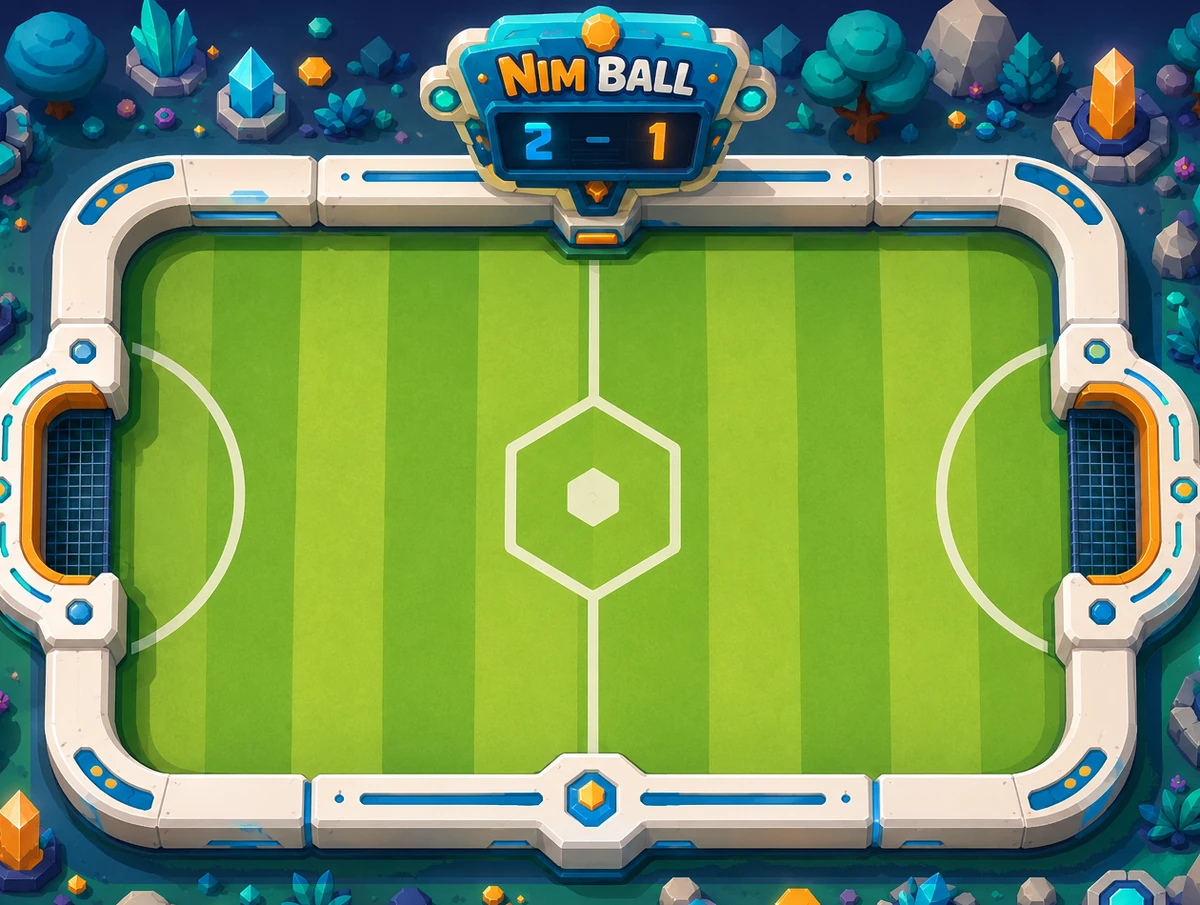
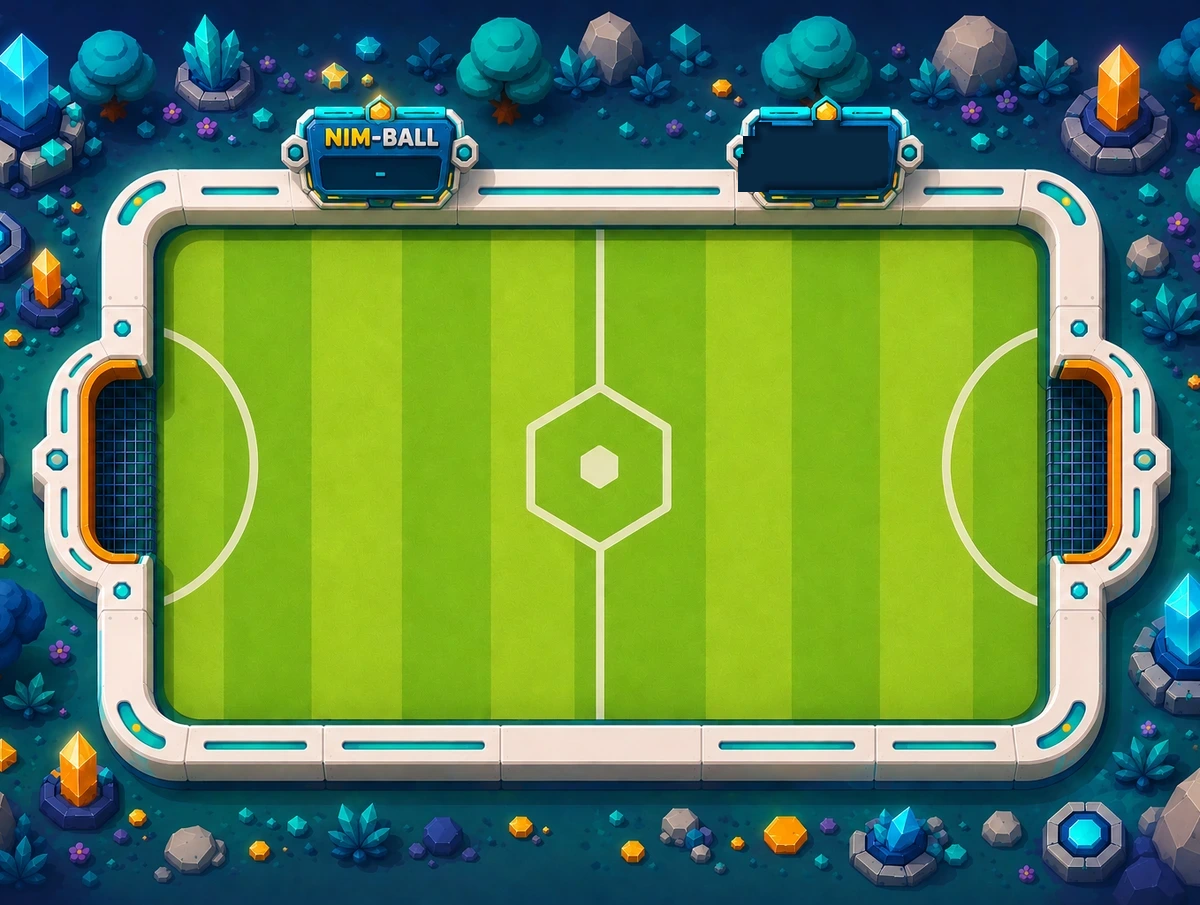
Rework arena background art and wire up the PLAY button/scoreboard
Replaces the arena artwork with a new illustrated rink (decorative
forest/crystal border, updated pitch), recalibrated so the physics
bounds (pitch edges, goal mouths) line up precisely with the new art
and the rink is centered in frame — the previous crop left more
breathing room on one side than the other.

The new art bakes in a "NIM-BALL" scoreboard panel and a "PLAY"
button, so the old floating score pill (drawLiveScore) is gone:
- The score now renders directly into the panel's screen, flanking
  the artwork's own "-" glyph, sized and aligned to match it.
- The PLAY button is extracted from the artwork as its own sprite
  (public/arena/play-cap.png) and redrawn on top of a patched-out
  socket in frame.webp, so it can squash/spring back on press. It
  triggers the same turn-validation flow as the "Valider mon tour"
  button.

diff --git a/src/game.js b/src/game.js
@@ -4,6 +4,7 @@
 
 const IDENTICON_SRC = { A: '/identicons/team-a.png', B: '/identicons/team-b.png' };
 const ARENA_FRAME_SRC = '/arena/frame.webp';
+const PLAY_CAP_SRC = '/arena/play-cap.png';
 
 export function startGame() {
   const canvas = document.getElementById('stage');
@@ -93,14 +94,21 @@ export function startGame() {
   const arenaFrameImage = new Image();
   arenaFrameImage.src = ARENA_FRAME_SRC;
 
+  // PLAY cap: cut out of the arena artwork itself (same pixels, same look) so it can be
+  // pressed/animated independently of the static background it was extracted from.
+  const PLAY_CAP_X0 = 738, PLAY_CAP_Y0 = 120, PLAY_CAP_X1 = 888, PLAY_CAP_Y1 = 192;
+  const playCapImage = new Image();
+  playCapImage.src = PLAY_CAP_SRC;
+
   // ---------- Config ----------
   // Field bounds match the illustrated arena (light-blue Nimiq accents),
   // scaled from the reference art — the pitch bounds match where the grass
   // actually sits in that artwork; the artwork itself (grass, lines, hex
   // marking, goals) is used as-is.
-  const FX0 = 140, FY0 = 238, FX1 = 1051, FY1 = 773;
-  const GY0 = 431, GY1 = 595;                 // goal mouth y-range
+  const FX0 = 169, FY0 = 234, FX1 = 1032, FY1 = 714;
+  const GY0 = 380, GY1 = 548;                 // goal mouth y-range
   const CY = (FY0 + FY1) / 2;
+  const CENTER_X = (FX0 + FX1) / 2;           // pitch's true horizontal center — ball spawn and score readout share this axis
   const GOAL_HALF_HEIGHT = (GY1 - GY0) / 2;
   const GOAL_NET_DEPTH = 38;                  // how deep the goal box is (glob falls in past this)
 
@@ -145,7 +153,7 @@ export function startGame() {
     entities.A = startPositions.A.map((p, i) => makeGlob('A', i, p));
     entities.B = startPositions.B.map((p, i) => makeGlob('B', i, p));
     entities.ball = {
-      x: (FX0 + FX1) / 2, y: CY, vx: 0, vy: 0, r: BALL_R, mass: BALL_MASS,
+      x: CENTER_X, y: CY, vx: 0, vy: 0, r: BALL_R, mass: BALL_MASS,
       squish: 0, squishNX: 1, squishNY: 0, rot: 0, squishGain: 1.1,
     };
   }
@@ -184,9 +192,14 @@ export function startGame() {
     return null;
   }
   function onPointerDown(evt) {
+    const pos = getPointerPos(evt);
+    if (isPlayButtonActive() && pointInPlayButton(pos)) {
+      evt.preventDefault();
+      pressPlayButton();
+      return;
+    }
     if (phase !== 'aimA' && phase !== 'aimB') return;
     evt.preventDefault();
-    const pos = getPointerPos(evt);
     const g = findGlobAt(pos);
     if (!g) return;
     g.pendingVx = 0; g.pendingVy = 0;
@@ -263,10 +276,11 @@ export function startGame() {
     `);
     document.getElementById('passContinueBtn').onclick = () => { hideOverlay(); phase = nextPhase; refreshTurnLabel(); };
   }
-  validateBtn.addEventListener('click', () => {
+  function onValidate() {
     if (phase === 'aimA') startPassScreen('aimB', 'ÉQUIPE ROUGE', 'b');
     else if (phase === 'aimB') { hideOverlay(); launchSimulation(); }
-  });
+  }
+  validateBtn.addEventListener('click', onValidate);
   resetShotsBtn.addEventListener('click', () => {
     currentTeamGlobs().forEach(g => { g.pendingVx = 0; g.pendingVy = 0; g.used = false; });
   });
@@ -394,35 +408,71 @@ export function startGame() {
       ctx.fillStyle = '#142451'; ctx.fillRect(0, 0, W, H);
     }
 
-    drawLiveScore();
+    drawScorePanel();
+    drawPlayButton();
   }
 
-  function drawLiveScore() {
-    // box scaled from the reference art's readout panel (~x:660-840, y:115-180 at 1536x1024)
-    const bx0 = 495, bx1 = 667, by0 = 110, by1 = 171;
-    const bw = bx1 - bx0, bh = by1 - by0;
+  // Score lives inside the "NIM-BALL" panel — this version of the artwork ships with the
+  // "-" already baked in and no digits at all, so there's nothing to patch/inpaint; we just
+  // draw the two digits directly into the empty slot flanking the original dash.
+  // Screen interior (measured from the art): x:[323,437], y:[157,188]; dash center: (380,173.5).
+  const SCORE_SLOT_CX_A = 349, SCORE_SLOT_CX_B = 411, SCORE_SLOT_CY = 177;
+  function drawScorePanel() {
     ctx.save();
-    ctx.beginPath();
-    const r = 10;
-    ctx.moveTo(bx0 + r, by0);
-    ctx.lineTo(bx1 - r, by0); ctx.arcTo(bx1, by0, bx1, by0 + r, r);
-    ctx.lineTo(bx1, by1 - r); ctx.arcTo(bx1, by1, bx1 - r, by1, r);
-    ctx.lineTo(bx0 + r, by1); ctx.arcTo(bx0, by1, bx0, by1 - r, r);
-    ctx.lineTo(bx0, by0 + r); ctx.arcTo(bx0, by0, bx0 + r, by0, r);
-    ctx.closePath();
-    ctx.fillStyle = '#0a2b46';
-    ctx.fill();
-
-    ctx.font = `800 ${Math.round(bh * 0.62)}px 'Baloo 2', Arial, sans-serif`;
+    ctx.font = `800 38px 'Baloo 2', Arial, sans-serif`;
     ctx.textAlign = 'center'; ctx.textBaseline = 'middle';
-    const cy = by0 + bh / 2 + 2;
-    const cx = bx0 + bw / 2;
-    ctx.fillStyle = '#3fa9f5';
-    ctx.fillText(String(scoreA), cx - bw * 0.24, cy);
-    ctx.fillStyle = '#faf6ee';
-    ctx.fillText('-', cx, cy);
-    ctx.fillStyle = '#ff9d3b';
-    ctx.fillText(String(scoreB), cx + bw * 0.24, cy);
+    ctx.fillStyle = '#5ecbf5';
+    ctx.fillText(String(scoreA), SCORE_SLOT_CX_A, SCORE_SLOT_CY);
+    ctx.fillStyle = '#ffc94d';
+    ctx.fillText(String(scoreB), SCORE_SLOT_CX_B, SCORE_SLOT_CY);
+    ctx.restore();
+  }
+
+  // PLAY cap: extracted from the artwork, drawn back on top of the socket that was
+  // patched into the background where it used to sit — see PLAY_CAP_X0..Y1 above.
+  // Pressing it squashes/dips it toward the socket and springs it back, like a real button.
+  const PLAY_PRESS_DURATION = 220;
+  let playPressAt = 0;
+  function playButtonBounds() {
+    return { x0: PLAY_CAP_X0, y0: PLAY_CAP_Y0, x1: PLAY_CAP_X1, y1: PLAY_CAP_Y1 };
+  }
+  function isPlayButtonActive() {
+    return !validateBtn.disabled && (phase === 'aimA' || phase === 'aimB');
+  }
+  function pointInPlayButton(pos) {
+    const b = playButtonBounds();
+    return pos.x >= b.x0 && pos.x <= b.x1 && pos.y >= b.y0 && pos.y <= b.y1;
+  }
+  function pressPlayButton() {
+    playPressAt = performance.now();
+    onValidate();
+  }
+  function drawPlayButton() {
+    if (!playCapImage.complete || !playCapImage.naturalWidth) return;
+    const b = playButtonBounds();
+    const cw = b.x1 - b.x0, ch = b.y1 - b.y0;
+    const cx = b.x0 + cw / 2, cy = b.y0 + ch / 2;
+    let p = 0;
+    if (playPressAt) {
+      const t = performance.now() - playPressAt;
+      if (t >= PLAY_PRESS_DURATION) playPressAt = 0;
+      else p = t / PLAY_PRESS_DURATION;
+    }
+    const squash = Math.sin(p * Math.PI); // 0 -> 1 -> 0 over the press/return cycle
+    const scale = 1 - 0.09 * squash;
+    const dy = 3 * squash;
+    const dim = isPlayButtonActive() ? 1 : 0.55; // read as disabled once the round is resolving
+
+    ctx.save();
+    ctx.globalAlpha = dim;
+    ctx.translate(cx, cy + dy);
+    ctx.scale(scale, scale);
+    ctx.drawImage(playCapImage, -cw / 2, -ch / 2, cw, ch);
+    if (squash > 0) {
+      ctx.globalAlpha = dim * squash * 0.25;
+      ctx.fillStyle = '#000000';
+      ctx.fillRect(-cw / 2, -ch / 2, cw, ch);
+    }
     ctx.restore();
   }
 